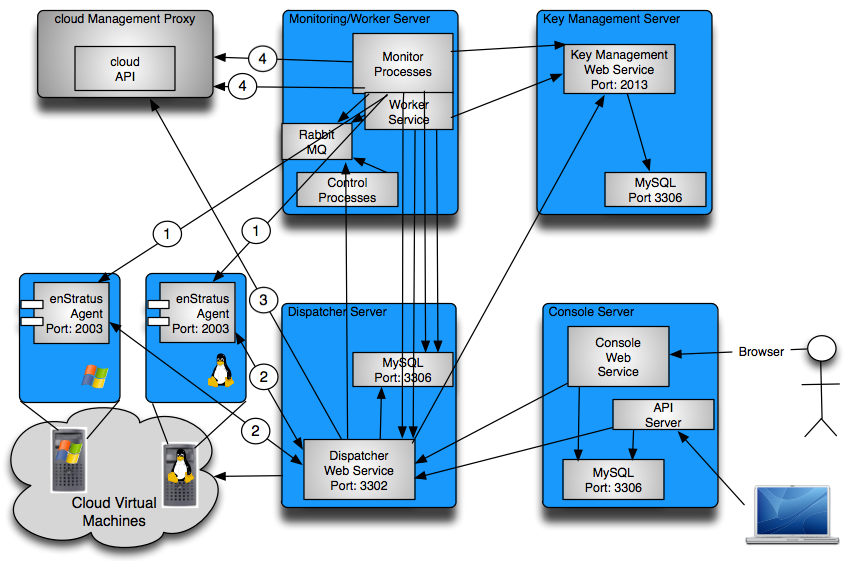
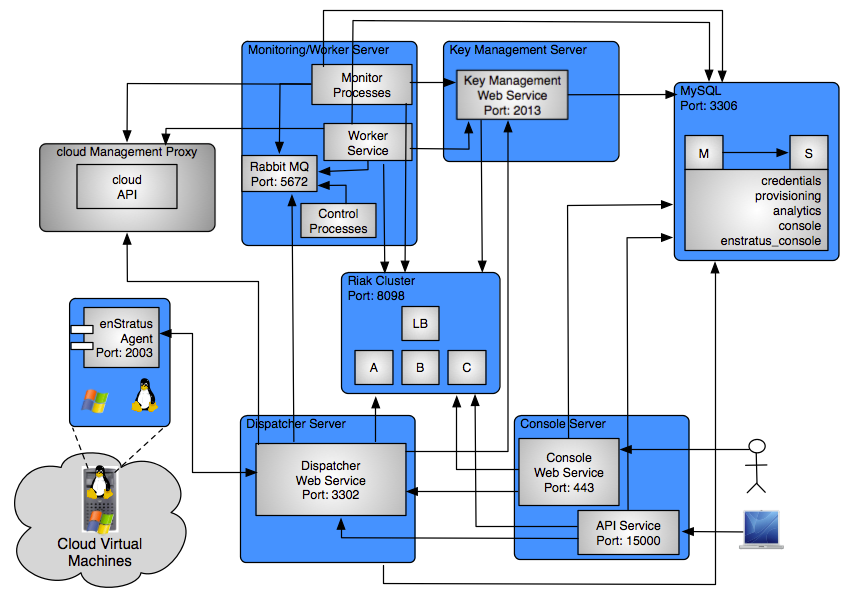
updated architecture diagram to include riak

diff --git a/on-premise/introduction/architecture.rst b/on-premise/introduction/architecture.rst
@@ -2,13 +2,13 @@ Architecture Requirements
 -------------------------
 
 .. figure:: images/enstratusArchitecture.png
-   :height: 550px
+   :height: 650px
    :width: 900 px
    :scale: 75 %
    :alt: 4-server Architecture
    :align: center
 
-   4-server Architecture
+   Example Architecture
 
 #. Communications from the Monitor/Workers processes to the guest VM agent on port 2003
    for the purpose of collecting logs.
